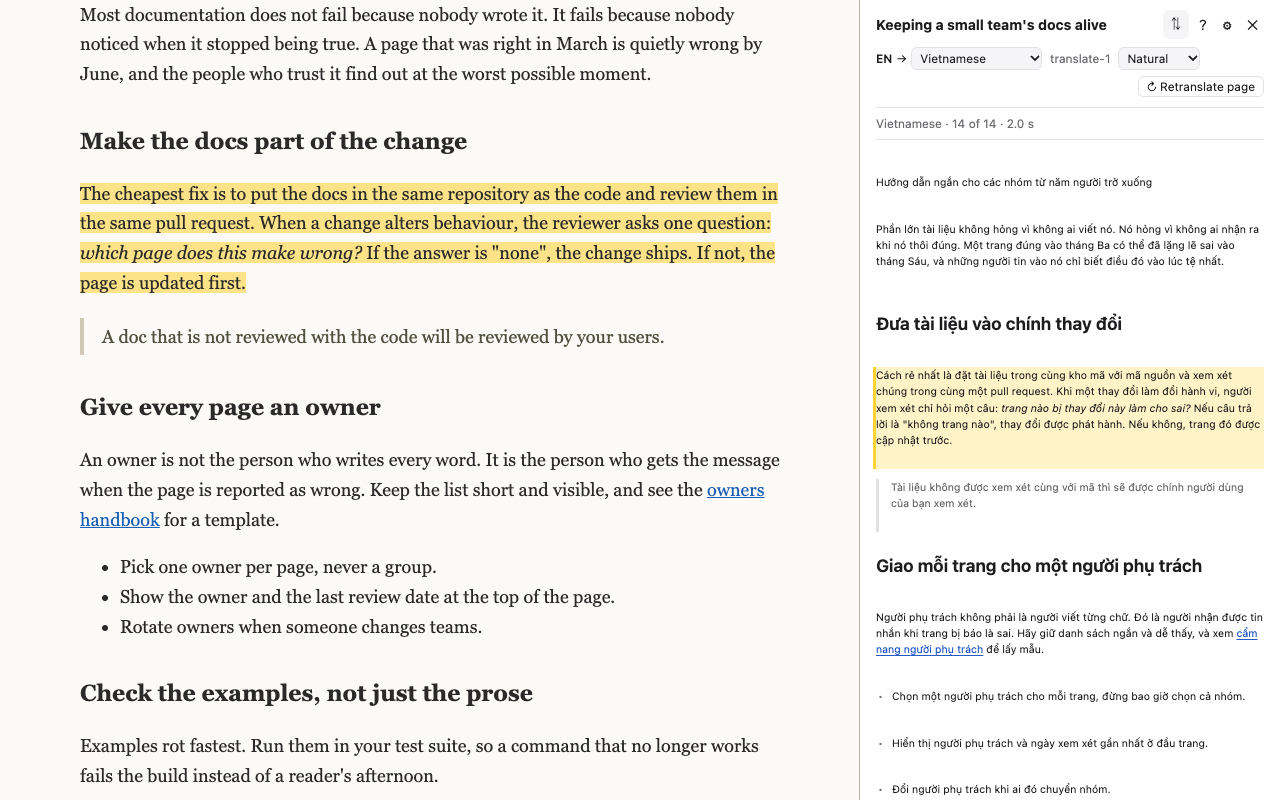
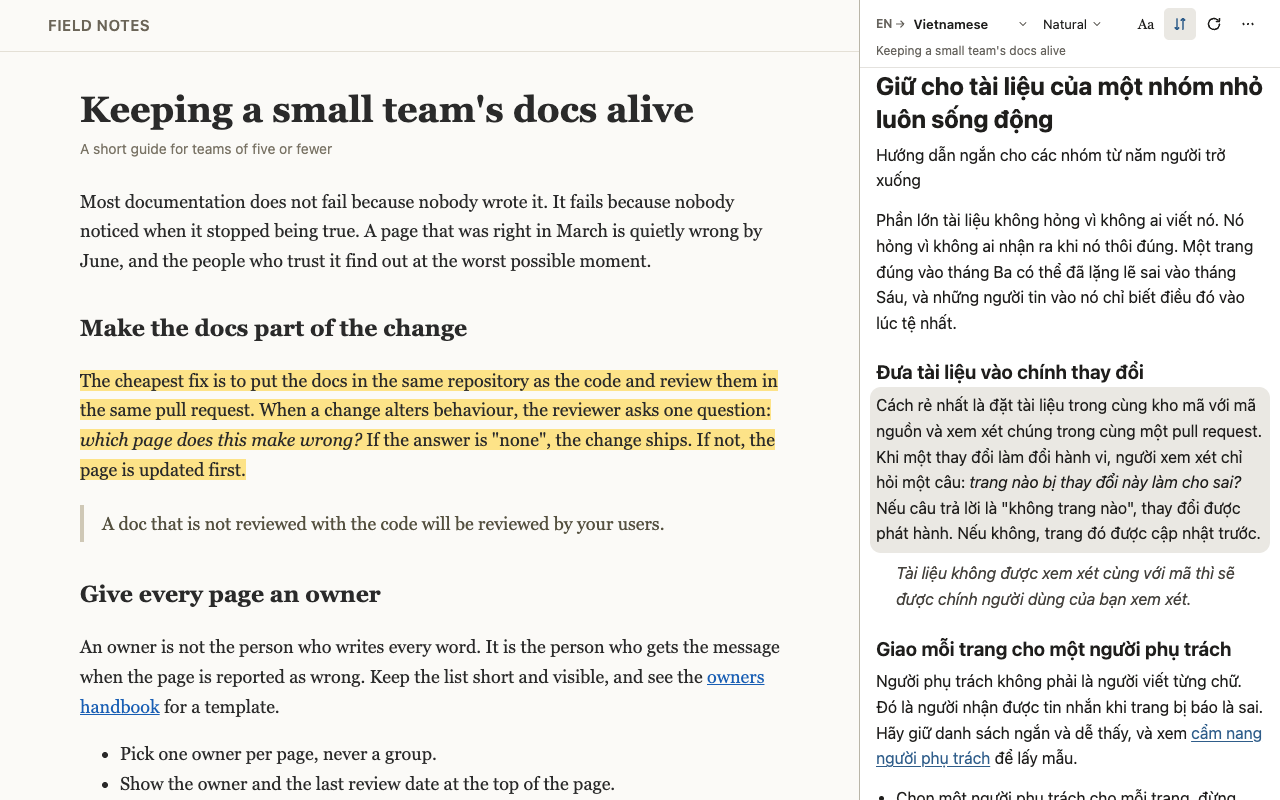
feat: release candidate 1.2.0 with the script checks, new screenshots and docs for the refreshed interface
- e2e: every target script with real text carries its lang, Arabic and Hebrew run
  right to left, each script reaches its own font rule, and Japanese and Chinese Han
  characters are drawn with their own forms where the platform has both fonts
- before and after screenshots of the panel, settings and onboarding, and new store
  screenshots
- DESIGN.md, README and ROADMAP describe the one-row header, the reading settings and
  the M8 milestone; the design system records the serif check
- the bundle budget lines M8 changed and the total are measured again
- version 1.2.0

diff --git a/e2e/scripts.spec.ts b/e2e/scripts.spec.ts
@@ -1,0 +1,94 @@
+// Every script the panel can be asked for, with real text: each block carries the target's lang,
+// Arabic and Hebrew run right to left, each script reaches its own font rule, and Japanese and
+// Chinese Han characters are drawn with their own forms when the platform has both fonts.
+import { expect, jobSettled, test, type Extension } from './fixtures.ts';
+
+/** A real sentence per target, with the two Han characters whose forms differ between Japanese and Chinese. */
+const SAMPLES: Record<string, string> = {
+  vi: 'Người phụ trách nhận tin nhắn khi trang bị báo sai.',
+  ja: 'ページが間違っていると報告されたときに連絡を受ける人。直骨',
+  'zh-CN': '当页面被报告有误时收到消息的人。直骨',
+  'zh-TW': '當頁面被回報有誤時收到訊息的人。直骨',
+  ko: '페이지가 잘못되었다고 보고될 때 메시지를 받는 사람.',
+  th: 'ผู้ที่ได้รับข้อความเมื่อมีการรายงานว่าหน้านั้นผิด',
+  ar: 'الشخص الذي يتلقى الرسالة عندما يُبلَّغ عن خطأ في الصفحة.',
+  // Not in the language list: a Chinese or Hebrew browser's default arrives this way, through storage.
+  zh: '当页面被报告有误时收到消息的人。直骨',
+  he: 'האדם שמקבל את ההודעה כאשר מדווחים שהדף שגוי.',
+};
+
+const setTarget = (extension: Extension, lang: string) =>
+  extension.worker.evaluate(async (l) => {
+    const prefs = (await chrome.storage.sync.get('prefs')).prefs as Record<string, unknown>;
+    await chrome.storage.sync.set({ prefs: { ...prefs, targetLang: l } });
+  }, lang);
+
+type Seen = { font: string; lang: string | null; dir: string | null; regionDir: string | null; all: boolean };
+
+test('each target script: lang and direction on every block, its own font rule, and Japanese and Chinese Han forms', async ({ extension, mock }) => {
+  let lang = 'vi';
+  // The sample, then the source text, so the post-checks (numbers, links) pass and every block is final.
+  mock.answerWith((text) => `${SAMPLES[lang] ?? ''} ${text}`);
+  await extension.seed();
+  const page = await extension.open('store/article.html');
+  const panel = await extension.panel();
+  await extension.translate(page);
+  expect(await jobSettled(panel)).toBe('done');
+
+  const seen: Record<string, Seen> = {};
+  for (const next of Object.keys(SAMPLES)) {
+    lang = next;
+    await setTarget(extension, next);
+    const first = panel.locator('.segments .seg[data-kind=p][data-status=final]').first();
+    await expect(first).toHaveAttribute('lang', next);
+    expect(await jobSettled(panel)).toBe('done');
+    seen[next] = await first.evaluate((el, l) => {
+      const translated = [...document.querySelectorAll<HTMLElement>('.segments .seg[data-status=final]')];
+      return {
+        font: getComputedStyle(el).fontFamily,
+        lang: el.getAttribute('lang'),
+        dir: el.getAttribute('dir'),
+        regionDir: el.closest('.segments')?.getAttribute('dir') ?? null,
+        all: translated.length > 0 && translated.every((b) => b.getAttribute('lang') === l),
+      };
+    }, next);
+  }
+
+  for (const [l, s] of Object.entries(seen)) expect(s.all, `every translated block carries lang=${l}`).toBe(true);
+  for (const rtl of ['ar', 'he']) expect([seen[rtl]?.dir, seen[rtl]?.regionDir], rtl).toEqual(['rtl', 'rtl']);
+  for (const ltr of ['vi', 'ja', 'zh-CN', 'ko', 'th']) expect(seen[ltr]?.regionDir || null, ltr).toBeNull();
+  // The cascade: each script reaches its own rule (this proves the rules, not the drawn font).
+  expect(new Set([seen.ja?.font, seen['zh-CN']?.font, seen['zh-TW']?.font, seen.ko?.font]).size).toBe(4);
+  expect(seen.zh?.font, 'bare zh is Simplified').toBe(seen['zh-CN']?.font);
+  expect(seen.ar?.font).not.toBe(seen.vi?.font);
+  expect(seen.he?.font).not.toBe(seen.vi?.font);
+
+  // The drawn glyphs: 直 and 骨 in the Japanese stack against the Simplified Chinese one, as the panel resolves them.
+  const ink = await panel.evaluate(
+    ({ ja, zh }) => {
+      const canvas = document.createElement('canvas');
+      canvas.width = 160;
+      canvas.height = 90;
+      const ctx = canvas.getContext('2d', { willReadFrequently: true }) as CanvasRenderingContext2D;
+      const draw = (family: string) => {
+        ctx.clearRect(0, 0, 160, 90);
+        ctx.font = `64px ${family}`;
+        ctx.fillText('直骨', 4, 70);
+        return ctx.getImageData(0, 0, 160, 90).data.join(',');
+      };
+      // A generic fallback for comparison: if both stacks draw what the fallback draws, neither platform font exists.
+      const fallback = draw('sans-serif');
+      const j = draw(ja);
+      const z = draw(zh);
+      return { differ: j !== z, jaIsFallback: j === fallback, zhIsFallback: z === fallback };
+    },
+    { ja: seen.ja?.font ?? '', zh: seen['zh-CN']?.font ?? '' },
+  );
+  test.info().annotations.push({ type: 'glyphs', description: JSON.stringify(ink) });
+  console.log(`drawn glyphs 直骨: ${JSON.stringify(ink)}`);
+  if (ink.jaIsFallback && ink.zhIsFallback) {
+    test.info().annotations.push({ type: 'skip', description: 'no Japanese or Simplified Chinese platform font here: the drawn-glyph check is left to the screenshots' });
+    return;
+  }
+  expect(ink.differ, '直骨 drawn the same in the Japanese and the Simplified Chinese stacks').toBe(true);
+});

diff --git a/ROADMAP.md b/ROADMAP.md
@@ -13,7 +13,7 @@ The open questions in `DESIGN.md` §12 are unresolved. This roadmap assumes:
 
 | Question | Assumption | What depends on it |
 |---|---|---|
-| Browsers | **Chrome only for v1.** WXT is still used so a Firefox build stays possible. | "Firefox build" moves from M5 to M8. No `sidebar_action` work, no Firefox CI. Chrome built-in AI can be relied on as an *optional* path. |
+| Browsers | **Chrome only for v1.** WXT is still used so a Firefox build stays possible. | "Firefox build" moves from M5 to M9. No `sidebar_action` work, no Firefox CI. Chrome built-in AI can be relied on as an *optional* path. |
 | Default provider | **Anthropic, Claude Haiku 4.5** (`claude-haiku-4-5`, $1 / $5 per MTok, 200K context). | Onboarding pre-selects the Anthropic preset. Eval baseline and cost estimates are measured on Haiku 4.5. Prompt caching will **not** engage on Haiku 4.5 with the designed system block (see §8, item 4). Thinking is left off (omit the `thinking` param). |
 | Target language | **One target language, switchable globally** (settings + header switch). Not per tab, not several at once. | Cache key already includes `targetLang`. The brief cache key must add it (§8, item 10). Onboarding step 1 picks it. |
 | Term gloss (§12 Q4) | Adopt the behavior already in the draft prompt: keep established English terms, add a short gloss **on first occurrence only**, for glossary terms and for terms the model judges to have no common equivalent. Exposed as a setting in M2. | `translate@1` prompt text, eval rubric for "terminology". |
@@ -31,7 +31,7 @@ Sizes assume one developer working with AI assistance: **S** ≈ up to 1 week, *
                                    M5 UX complete + robustness ─────────► M6 Hardening ═══ v1.0
                                                                                  │
                                                                                  ▼
-                                                        M7 Stronger translation ──► M8 Beyond v1
+                                                        M7 Stronger translation ──► M8 UI/UX refresh ──► M9 Beyond v1
 ```
 
 | # | Milestone | Goal in one line | Size | Cut |
@@ -44,7 +44,8 @@ Sizes assume one developer working with AI assistance: **S** ≈ up to 1 week, *
 | M5 | Reading UX complete and robustness | Hover, bidirectional scroll sync, SPA handling, site rules, long docs, tables, Chrome built-in, import/export | M | |
 | M6 | Release hardening | Store listing, permissions review, e2e tests, regression gate, docs, beta | M | **v1.0** |
 | M7 | Stronger translation | `refine` strategy with revisions, quality modes, translation memory from edits | L | v1.1 |
-| M8 | Beyond v1 | `agentic`, Firefox, passphrase lock, domain providers, `gemini-native` | L | later |
+| M8 | UI/UX refresh | One design system for the panel, options and onboarding; reading-first panel, reading settings, script-correct fonts | M | v1.2 |
+| M9 | Beyond v1 | `agentic`, Firefox, passphrase lock, domain providers, `gemini-native` | L | later |
 
 ## 2. Spikes (time-boxed, inside M0)
 
@@ -284,7 +285,7 @@ huge docs, tables, navigation within a site.
 - SPA handling: MutationObserver + URL-change detection → re-extract; unchanged segments from cache; stable segment ids across re-extraction.
 - Navigation within a site keeps translating when the site is allowlisted (optional host permission per S5). Otherwise, after a same-origin navigation, the panel shows the original text with a one-click "Translate this page" (the `activeTab` grant survives same-origin navigation). After a cross-origin navigation, it asks for `Alt+T`/the toolbar or "Always translate on this site", because a panel click cannot grant `activeTab`.
 - Long documents: lazy mode above a segment-count threshold (viewport + ~2 screens ahead), with "Translate the rest" button.
-- Tables: cell segments, rows kept in one chunk; captions and alt text behind a setting; code comments translation deferred to M8.
+- Tables: cell segments, rows kept in one chunk; captions and alt text behind a setting; code comments translation deferred to M9.
 - Site rules UI: auto-translate allowlist, never-translate list, local-only, per-site model (storage from M4-E8).
 - Chrome built-in: `chrome-builtin` adapter for Nano via `LanguageModel` (experimental, behind a flag) and a separate **MT port** for `Translator` used by the `basic` strategy (see §8 item 3); "basic translation" label; used as last fallback or by choice.
 - "Explain this" per-block action (`explain@1` prompt via `translateSnippet`, output shown as a note).
@@ -357,7 +358,22 @@ never waits; the translator learns from the user's edits.
 modes and routing UI; M7-E4 block editing and translation memory store; M7-E5 TM provider;
 M7-E6 eval comparison.
 
-### M8 — Beyond v1 (unsized)
+### M8 — UI/UX refresh (size M, v1.2)
+
+**Goal.** The panel reads like a page, not a form: the translation leads, controls stay out of the
+way, and every script renders correctly. Options and onboarding share the same design system.
+
+**Deliverables.** Design tokens and anti-pattern rules in `docs/design-system.md`; a small Preact
+component set (buttons, menus, segmented controls, fields, popover, icons); the "Paper" panel
+(one control row, 2px progress bar, serif or sans reading text, per-block actions on hover);
+reading settings (font size, typeface, line width, theme light/dark/paper); system font stacks per
+script through `:lang()`; options and onboarding rebuilt on the same components.
+
+**Exit criteria.** See `docs/plans/M8-ui-ux-refresh.md` §3.
+
+**Dependencies.** M6 (e2e, bundle budget, store screenshots), M7 (panel features it restyles).
+
+### M9 — Beyond v1 (unsized)
 
 `agentic` strategy with read-only tools (web `define_term` must be allow-listed and must never
 receive page text verbatim, see §8 item 14); Firefox build (`sidebar_action`, no built-in AI);
@@ -398,8 +414,8 @@ no SPA handling, no Chrome built-in. This is the first point where daily reading
 the extension than without it.
 
 **v1.0 = M0–M6.** Everything in `DESIGN.md` except: `refine`/quality modes and translation memory
-(M7), `agentic` (M8), Firefox (M8), passphrase lock (M8), code-comment translation (M8),
-`gemini-native` (M8). Chrome built-in ships in v1.0 as a fallback and experimental option only
+(M7), `agentic` (M9), Firefox (M9), passphrase lock (M9), code-comment translation (M9),
+`gemini-native` (M9). Chrome built-in ships in v1.0 as a fallback and experimental option only
 if S8 shows it is reliable; otherwise it moves to v1.1 and onboarding offers two paths.
 
 ## 6. Dependencies on the §0 assumptions

diff --git a/README.md b/README.md
@@ -59,11 +59,13 @@ Translate Side gives the model the **whole document's context** before it transl
 | | |
 |---|---|
 | 🪟 **Side-by-side reading** | Click the toolbar icon or press <kbd>Alt</kbd>+<kbd>T</kbd>. The panel opens for that tab and starts translating right away; the same key closes it again. |
-| ⚡ **Streaming output** | Segments appear as they're translated. |
+| ⚡ **Streaming output** | Segments appear as they're translated. A block still waiting shows its original, muted, so there is always something to read. |
+| 📰 **Reads like a page** | Pick serif or sans, a text size, a line width and a theme (system, light, paper or dark) from **Aa** in the panel. A change applies at once and never translates the page again. The theme also applies to Settings and the setup guide, and follows you to your other devices. |
+| 🈶 **Every script, drawn right** | System fonts chosen per script: Japanese and Chinese Han characters take their own forms, and Arabic and Hebrew translations run right to left. |
 | 🗂 **Any provider, or none online** | Bring your own key for Anthropic, OpenAI, Google Gemini, OpenRouter or any OpenAI- or Anthropic-compatible service, or run a model on your own computer with Ollama or LM Studio. Route pages to different models per site, with fallbacks. See [Providers and local models](#-providers-and-local-models). |
 | 🧠 **"About this document"** | Before translating, the model writes a short brief covering genre, audience, purpose, tone and key terms. You can read it in the panel, and every chunk is translated with it. |
 | 🎨 **Style modes** | **Natural** reads as if it was written in your language. **Faithful** stays closer to the original wording. **Simplified** uses short sentences and plain words. |
-| ⚖ **Quality modes** | **Fast** translates each part of the page in one pass, at the lowest cost. **Balanced**, the default, reads the page first and translates with what it learned. Choose in the panel header or in Settings › Translation quality. |
+| ⚖ **Quality modes** | **Fast** translates each part of the page in one pass, at the lowest cost. **Balanced**, the default, reads the page first and translates with what it learned. Choose in the panel's Translation menu or in Settings › Translation quality. |
 | ✏ **Edit a translation** | The Edit button on a block opens it for your own wording. Your version is marked "Edited", is shown whenever that text comes up again, and stays on this device, even when you clear the cache. |
 | 🧾 **Translation memory** | In Balanced, your corrections also guide later translations: when a passage is similar to one you corrected, the correction goes to the model as an example (at most three per chunk). By default only corrections from the same site are used; "Use corrections from other sites" widens that. Export and import the memory as its own file in Settings › Translation memory. |
 | 📖 **Personal glossary** | Pick how a term is always rendered, or keep it as is (for example, "deploy" stays in English). It syncs to other devices signed in to the same Chrome profile. |
@@ -72,7 +74,7 @@ Translate Side gives the model the **whole document's context** before it transl
 | 🔗 **Hover link and scroll sync** | Point at a block in the panel and the matching block on the page is marked, and the other way round. The panel can follow the page as you scroll. |
 | 📌 **Selection and sites** | Select text and choose "Translate in side panel" to translate just that. Allow a site and each page you open there is translated while the panel is open; mail and sign-in sites are never read. |
 | 🗃 **Cache and long pages** | Translations are cached on your device and resume after a reload. Long pages translate what you are looking at first, and single-page apps are followed as they change routes. |
-| 💸 **Cost you can see** | The panel shows the token cost of each page. A per-page token budget keeps a runaway job in check. |
+| 💸 **Cost you can see** | The panel's Translation menu shows the token cost of each page. A per-page token budget keeps a runaway job in check. |
 | ⌨ **Keyboard and screen readers** | The panel is one Tab stop; the arrows (or <kbd>J</kbd>/<kbd>K</kbd>) move between blocks, and <kbd>O</kbd>, <kbd>R</kbd>, <kbd>E</kbd>, <kbd>C</kbd> show the original, retranslate, explain and copy the focused block. The translation is marked with its language. See [Keyboard shortcuts](#keyboard-shortcuts). |
 | 📦 **Portable settings** | Export your connections, models, routing, preferences, glossary and site lists to a JSON file and import it in another browser (Options › Export and import settings). API keys stay out of the file unless you tick "include keys" and confirm. |
 | 🩺 **Local diagnostics** | The last 50 translations (versions, model, counts, tokens, timings, error kinds; never page text or page addresses, and site names only if you turn them on) are logged on this device only. Options › Diagnostics shows the whole file before you save it to attach to a bug report. Nothing is sent automatically. |
@@ -223,7 +225,8 @@ how to delete it, is in [`docs/privacy.md`](docs/privacy.md).
 | ✅ | **M5** Reading UX complete | Hover link, scroll sync, single-page apps, long documents, keyboard and screen readers |
 | ✅ | **M6** Release hardening → **v1.0** | Eval gate, end-to-end tests, storage migration, performance, Vietnamese interface, store package and docs |
 | ⏳ | **M7** Stronger translation → **v1.1** | Quality modes, edits and a translation memory |
-| 🔭 | **M8** Beyond | Firefox and other independent tracks |
+| ⏳ | **M8** UI/UX refresh → **v1.2** | A reading-first panel, reading settings, one design system for every page |
+| 🔭 | **M9** Beyond | Firefox and other independent tracks |
 
 The full plan is in [`ROADMAP.md`](ROADMAP.md) and [`docs/plans/`](docs/plans/). The design and its
 reasoning are in [`DESIGN.md`](DESIGN.md). The interface's tokens, components and rules are in

diff --git a/DESIGN.md b/DESIGN.md
@@ -50,12 +50,18 @@ terms consistent, and rewrite idioms. That's the core of this design (§5).
 ┌──────────────────────────── Browser window ─────────────────────────────┐
 │  Original page (untouched)              │  Translate Side panel         │
 │                                         │  ┌─────────────────────────┐  │
-│  # Understanding Async Rust             │  │ EN → VI   Haiku 4.5  ⚙  │  │
-│                                         │  ├─────────────────────────┤  │
+│  # Understanding Async Rust             │  │EN→Tiếng Việt⌄ Tự nhiên⌄ │  │
+│                                         │  │        Aa  ⇅  ↻  ⋯      │  │
+│                                         │  │ Understanding Async Rust│  │
+│                                         │  │▔▔▔▔▔▔▔▔▔▔▔▔▔▔▔▔▔▔▔▔ 2px │  │
 │  ▌Futures in Rust are lazy: they do     │  │ # Hiểu về Async Rust    │  │
 │  ▌nothing unless polled...  ◀── hover ──┼──▶ ▌Future trong Rust là   │  │
 │                                         │  │ ▌"lười": ...            │  │
 │  ```rust                                │  │ ```rust  (kept as-is)   │  │
+│  async fn fetch() { ... }               │  │ WAITING                 │  │
+│  ```                                    │  │ The original, muted…    │  │
+└─────────────────────────────────────────┴───────────────────────────────┘
+```rust                                │  │ ```rust  (kept as-is)   │  │
 │  async fn fetch() { ... }               │  │                         │  │
 │  ```                                    │  │ ░░░░ translating… ░░░░  │  │
 └─────────────────────────────────────────┴───────────────────────────────┘
@@ -75,10 +81,16 @@ terms consistent, and rewrite idioms. That's the core of this design (§5).
 - **Per-block actions**: *show original inline*, *retranslate* (skips the cache and replaces the
   stored entry), *copy* (the shown text, as plain text), *explain this* (a short note on idioms or
   cultural references; M5).
-- **Header**: the language pair with a target-language switch, the model (read-only until the
-  quick switcher, §4.3.3 B, takes its place), the style mode, settings, Cancel / Retranslate page,
-  and the scroll-follow toggle. A switch is saved like the options page saves it, and the page is
-  translated again under it (from the cache where it can).
+- **Header**: one control row. The language pair with a target-language switch; a Translation
+  button whose popover holds the style mode, the quality, the quick switcher (§4.3.3 B) and a page
+  line with the model, time and cost; then **Aa** (reading settings), the scroll-follow toggle,
+  Retranslate page or Stop, and a More menu (keyboard shortcuts, settings, close). Under the row: the
+  page title, a 2px progress bar while translating, and a strip for notices that must stay in view.
+  A switch is saved like the options page saves it, and the page is translated again under it (from
+  the cache where it can).
+- **Reading settings**: serif or sans, a text size (13 to 24px), a line width and a theme (system,
+  light, paper or dark). They are their own synced setting, never part of the translation settings,
+  so a change restyles the text at once, starts no job and keeps the reader's place.
 - **Style control**: Natural (default) / Faithful (closer to the source) / Simplified (easier
   reading).
 - **Glossary**: terms detected automatically for each document, plus a personal glossary you edit

diff --git a/docs/progress/progress-m8.md b/docs/progress/progress-m8.md
@@ -22,7 +22,7 @@ A fresh session resumes from this file alone.
 | 3 | Reading view: typography, rhythm, block states, scripts | **Accepted 2026-10-18 11:35** (pnpm check, e2e 48 passed) | see git log |
 | 4 | Options page on the design system | **Accepted 2026-10-18 12:30** (pnpm check, e2e 48 passed) | see git log |
 | 5 | Onboarding on the design system | **Accepted 2026-10-18 13:05** (pnpm check, e2e 49 passed) | see git log |
-| 6 | Verification, screenshots, docs and 1.2.0 RC | Pending | |
+| 6 | Verification, screenshots, docs and 1.2.0 RC | **Agent part accepted 2026-10-18 13:40**; owner part open (Windows check, upload, tag) | see git log |
 
 ## Decisions
 
@@ -190,6 +190,35 @@ A fresh session resumes from this file alone.
   budget is tight and the sample is one paragraph); the system fallback draws every script.
 - Phase 5 checks: one `pnpm check` run failed an unrelated timing unit test (`src/engine/context/memory.test.ts`,
   5,000 entries ranked in under 50 ms, 302 ms under load); the next full run passed.
+
+## Phase 6 log
+
+- `e2e/scripts.spec.ts`: real samples for vi, ja, zh-CN, zh-TW, ko, th, ar, and bare zh and he through storage. Every
+  translated block carries the target `lang`; ar and he blocks and the region run `rtl`; ja, zh-CN, zh-TW and ko reach
+  four different font rules, bare zh is Simplified, ar and he differ from vi. The drawn-glyph check passed on this
+  Mac: 直骨 drawn in the Japanese stack differ from the Simplified Chinese one (it skips with a recorded reason where
+  neither platform font exists).
+- Rhythm, reading-settings and follow-anchor checks (`e2e/reading.spec.ts`) run in the full suite; the contrast test
+  covers every theme and token; `check-tokens.mjs` passes on the final tree.
+- Windows check not done: no Windows machine. Recorded in `docs/design-system.md`; sans stays the default.
+- Screenshots: `screens/after/` (light, dark, paper at 320 and 480 px, panel, settings, onboarding) and
+  `screens/README.md`; store screenshots 01–05 regenerated.
+- Docs: DESIGN.md §3 (header, reading settings, sketch), README (features, roadmap row; M8 stays ⏳ until the owner
+  publishes 1.2.0, as M7 did), ROADMAP (M8 UI/UX refresh and M9 Beyond, the same edits as the main checkout's
+  uncommitted ones), docs/design-system.md, docs/privacy.md.
+- Bundle: the lines M8 changed measured again against the phase 1 chunk map (no chunk renamed; `theme-boot.js` new),
+  and the total: 303489 B of 333838 B.
+- Final tree: `pnpm check` green, `pnpm run e2e` 49 passed (6 skipped: the gated screenshot specs and the upgrade
+  test). Last look at every surface in light, paper and dark: one accent, no gradients, cards, pills, shimmer or
+  emoji; spec §2 bullets met (one control row, book-like text with reading settings, even rhythm, readable waiting
+  blocks, script-correct fonts and RTL, options and onboarding on the same parts).
+- Version 1.2.0; the zip, its size and SHA-256 are in `docs/store/submission.md`.
+
+## Final state
+
+M8 is done on branch `m8` (worktree `../translate-side-m8`), not merged or pushed. Owner steps: review, merge into
+master (the main checkout's uncommitted README and ROADMAP edits are already in `m8`: set them aside first), push,
+run the Windows glyph check, upload 1.2.0 and tag it.
 
 ## Open items
 

diff --git a/plans/261018-0900-m8-ui-ux-refresh/screens/README.md b/plans/261018-0900-m8-ui-ux-refresh/screens/README.md
@@ -1,0 +1,15 @@
+# M8 screenshots
+
+Taken by `e2e/ui-screens.spec.ts` (`pnpm run ui:screens -- before|after`) against the mock provider: the panel with
+the translated store article, the top of the settings page and onboarding step 1, at panel widths of 320 and 480 px.
+
+- `before/`: the UI at d7b41cc (v1.1.0), light and dark (paper did not exist yet).
+- `after/`: the UI after M8, light, dark and paper.
+
+| Surface | Before | After |
+|---|---|---|
+| Panel | `before/panel-{light,dark}-{320,480}.png` | `after/panel-{light,dark,paper}-{320,480}.png` |
+| Settings | `before/options-{light,dark}-{320,480}.png` | `after/options-{light,dark,paper}-{320,480}.png` |
+| Onboarding | `before/onboarding-{light,dark}-{320,480}.png` | `after/onboarding-{light,dark,paper}-{320,480}.png` |
+
+The store screenshots (`docs/store/assets/01` to `05`) were regenerated with the new UI by `pnpm run store:screenshots`.

diff --git a/docs/design-system.md b/docs/design-system.md
@@ -86,8 +86,10 @@ Fonts are system fonts only.
 **Why Georgia leads the serif stack.** `scripts/glyph-check.html` draws every Vietnamese vowel with
 every tone mark, plus Ơ Ư Đ, in each candidate. On macOS (Chrome 156, 2026-10-18) Iowan Old Style
 and Charter have every glyph, but they draw the horn of ơ and ư like a hook above, so ơ reads as ỏ
-and Ở loses its horn. Georgia draws them correctly. The Windows result is recorded in phase 6 of
-the M8 plan.
+and Ở loses its horn. Georgia draws them correctly. Windows was not checked: no Windows machine
+was available for M8. Georgia ships with Windows and covers Vietnamese, and sans stays the default
+typeface, so a Windows reader who picks serif gets Georgia; open `scripts/glyph-check.html` there to
+confirm.
 
 ### Per-script stacks and why `lang` matters
 
